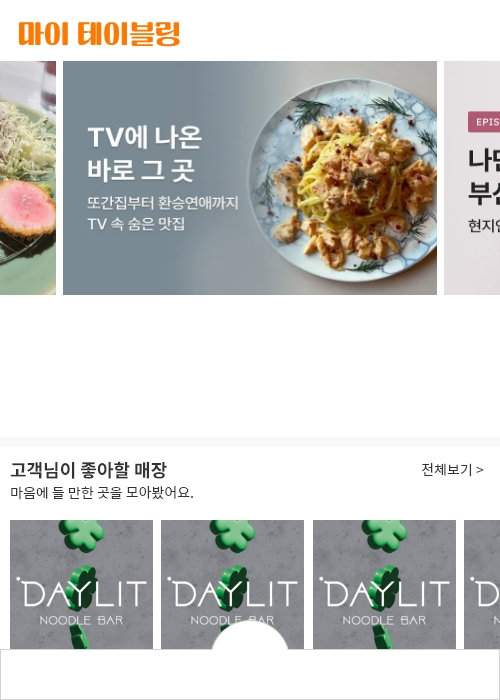
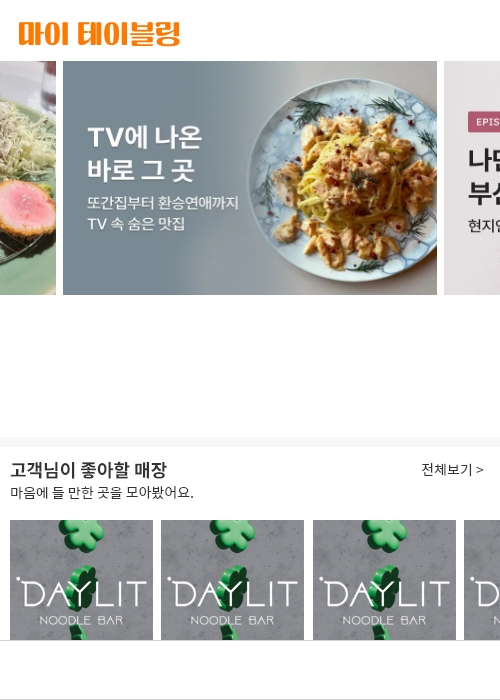
고객메인이미지수정, 예약리스트 구현중

Changed region(s): [[0.0, 0.87, 1.0, 1.0]]

diff --git a/src/tabling/frame/RestaurantMainMenuFrame.java b/src/tabling/frame/RestaurantMainMenuFrame.java
@@ -3,7 +3,9 @@ package tabling.frame;
 import java.awt.Font;
 import java.awt.Graphics;
 import java.awt.Image;
+import java.awt.event.ActionListener;
 import java.awt.event.MouseAdapter;
+import java.awt.event.MouseEvent;
 import java.sql.SQLException;
 import java.util.List;
 
@@ -14,6 +16,8 @@ import javax.swing.JLabel;
 import javax.swing.JPanel;
 import javax.swing.JScrollPane;
 import javax.swing.JTable;
+import javax.swing.event.AncestorEvent;
+import javax.swing.event.AncestorListener;
 import javax.swing.table.DefaultTableCellRenderer;
 import javax.swing.table.DefaultTableModel;
 
@@ -23,6 +27,7 @@ import tabling.dto.RestaurantDTO;
 
 public class RestaurantMainMenuFrame extends JFrame {
 
+	private RestaurantMainMenuFrame frame; // TODO
 	private BackgroundPanel backgroundPanel;
 	private RestaurantDTO restDTO;
 	private RestaurantReservationDAO restDAO;
@@ -53,9 +58,10 @@ public class RestaurantMainMenuFrame extends JFrame {
 	}
 
 	private void initData() {
+		 frame = this;
 		// 테이블에 담는 메소드
 		tableSet();
-		setCList();
+		setList();
 		restDAO = new RestaurantReservationDAO();
 		backgroundPanel = new BackgroundPanel();
 
@@ -87,16 +93,26 @@ public class RestaurantMainMenuFrame extends JFrame {
 
 	private void initListener() {
 
-		// 새로고침
+		// TODO - 새로고침
 		resetBtn.addMouseListener(new MouseAdapter() {
-			// 리스트를 다시 담아야 한다. select만.
-			DefaultTableModel tableModel = (DefaultTableModel)table.getModel();
-		
+			// 리스트 다시 담기.
+			@Override
+			public void mousePressed(MouseEvent e) {
+				setList();
+			}
 		});
 		
-		// 예약종료
+		// TODO - 예약종료
 		endReserBtn.addMouseListener(new MouseAdapter() {
 			// row를 하나만 선택한 상태에서 update & select 해야 한다.
+			
+			@Override
+			public void mousePressed(MouseEvent e) {
+				if(table.getRowCount() == 1) {
+					
+				}
+			}
+			
 		});
 		
 	}
@@ -152,9 +168,16 @@ public class RestaurantMainMenuFrame extends JFrame {
 
 		// 테이블에 컬럼 추가
 		table.getColumn("고객 닉네임").setPreferredWidth(120);
+		table.getColumn("고객 닉네임").setCellRenderer(centerAlign);
 		table.getColumn("고객 전화번호").setPreferredWidth(120);
+		table.getColumn("고객 전화번호").setCellRenderer(centerAlign);
 		table.getColumn("예약시간").setPreferredWidth(80);
+		table.getColumn("예약시간").setCellRenderer(centerAlign);
 		table.getColumn("예약상태").setPreferredWidth(90);
+		table.getColumn("예약상태").setCellRenderer(centerAlign);
+		
+		// 컬럼 이동 불가
+		table.getTableHeader().setReorderingAllowed(false);
 
 		//
 		repaint();
@@ -162,7 +185,7 @@ public class RestaurantMainMenuFrame extends JFrame {
 	}
 
 	// List<>에 값을 담는 메소드
-	private void setCList() {
+	private void setList() {
 		try {
 			reserList = restDAO.getCustomerInfoByReservation(restDTO.getRestaurantId());
 		} catch (SQLException e) {
@@ -186,71 +209,6 @@ public class RestaurantMainMenuFrame extends JFrame {
 			g.drawImage(backgroundImage, 0, 0, getWidth(), getHeight(), null);
 		}
 
-	}
-	
-	// TODO - 테이블 초기화 메소드
-	private void resetTable() {
-		// 리스트 값
-		contents = new String[reserList.size()][head.length];
-
-		for (int i = 0; i < reserList.size(); i++) {
-
-			String cName = reserList.get(i).getCustomerName();
-			String cPhone = reserList.get(i).getCustomerPhone();
-			String time = reserList.get(i).getReservationTime();
-			contents[i][0] = cName;
-			contents[i][1] = cPhone;
-			contents[i][2] = time.substring(5, 16);
-
-			if ((reserList.get(i).getState()).equals("Y")) {
-				String state = "대기중";
-				contents[i][3] = state;
-			} else {
-				String state = "예약종료";
-				contents[i][3] = state;
-			}
-
-		}
-
-		// 테이블
-		DefaultTableModel tableModel = new DefaultTableModel(contents, head); // 모델과 데이터 연결
-		table = new JTable(tableModel) {
-			@Override
-			public boolean isCellEditable(int row, int column) {
-				return false;
-			}
-		};
-
-		// 스크롤
-		scroll = new JScrollPane(table);
-		add(scroll);
-		scroll.setSize(450, 450);
-		scroll.setLocation(20, 115);
-
-		// 테이블에 개별 셀을 표시하기 위한 클래스
-		DefaultTableCellRenderer centerAlign = new DefaultTableCellRenderer();
-		centerAlign.setHorizontalAlignment(JLabel.CENTER);
-
-		// 테이블 폰트
-		table.setFont(new Font("Noto Sans KR", Font.BOLD, 15));
-		table.setRowHeight(25);
-		table.getTableHeader().setReorderingAllowed(false); // 컬럼 이동 불가
-
-		// 테이블에 컬럼 추가
-		table.getColumn("고객 닉네임").setPreferredWidth(120);
-		table.getColumn("고객 전화번호").setPreferredWidth(120);
-		table.getColumn("예약시간").setPreferredWidth(80);
-		table.getColumn("예약상태").setPreferredWidth(90);
-
-		//
-		repaint();
-	
-		try {
-			reserList = restDAO.getCustomerInfoByReservation(restDTO.getRestaurantId());
-		} catch (SQLException e) {
-			e.printStackTrace();
-		}
-	
 	}
 	
 }

diff --git a/src/tabling/frame/CategoryFrame.java b/src/tabling/frame/CategoryFrame.java
@@ -60,7 +60,7 @@ public class CategoryFrame extends JFrame implements MyMouseListener {
 		mainPanel = new MainPanel();
 		scrollPane = new JScrollPane(mainPanel);
 
-		homeLable = new JLabel(new ImageIcon("img/home.png"));
+		homeLable = new JLabel(new ImageIcon("img/house-solid.png"));
 
 		for (int i = 0; i < 14; i++) {
 			mainPanel.add(categoryImgs[i]);
@@ -76,14 +76,14 @@ public class CategoryFrame extends JFrame implements MyMouseListener {
 		setVisible(true);
 		setResizable(false);
 
-		homeLable.setBounds(40, 5, 70, 70);
+		homeLable.setBounds(215,588, 70, 70);
 		add(homeLable);
 
 		backgroundPanel.setSize(getWidth(), getHeight());
 		backgroundPanel.setLayout(null);
 		add(backgroundPanel);
 
-		scrollPane.setBounds(40, 120, 400, 420);
+		scrollPane.setBounds(48, 120, 400, 420);
 		backgroundPanel.add(scrollPane);
 
 		mainPanel.setLayout(new GridLayout(0, 1));
@@ -134,7 +134,7 @@ public class CategoryFrame extends JFrame implements MyMouseListener {
 		private Image backgroundImage;
 
 		public BackgroundPanel() {
-			backgroundImage = new ImageIcon("img/backgroundimage.jpg").getImage();
+			backgroundImage = new ImageIcon("img/categoryFrameBg.jpg").getImage();
 		}
 
 		@Override
@@ -148,7 +148,7 @@ public class CategoryFrame extends JFrame implements MyMouseListener {
 		private Image backgroundImage;
 
 		public MainPanel() {
-			backgroundImage = new ImageIcon("img/backgroundimage.jpg").getImage();
+			backgroundImage = new ImageIcon("img/scrollPaneBg.jpg").getImage();
 		}
 
 		@Override

diff --git a/src/tabling/frame/LoginSelectFrame.java b/src/tabling/frame/LoginSelectFrame.java
@@ -43,12 +43,12 @@ public class LoginSelectFrame extends JFrame {
 		backgroundPanel.setLayout(null);
 		add(backgroundPanel);
 
-		customerBtn.setBounds(40, 115, 50, 50);
+		customerBtn.setBounds(35, 115, 50, 50);
 		customerBtn.setSize(320, 200);
 		customerBtn.setFont(new Font("Noto Sans KR", Font.BOLD, 15));
 		backgroundPanel.add(customerBtn);
 
-		restaurantBtn.setBounds(40, 310, 50, 50);
+		restaurantBtn.setBounds(35, 310, 50, 50);
 		restaurantBtn.setSize(320, 200);
 		restaurantBtn.setFont(new Font("Noto Sans KR", Font.BOLD, 15));
 		backgroundPanel.add(restaurantBtn);

diff --git a/src/tabling/frame/CustomerMainMenuFrame.java b/src/tabling/frame/CustomerMainMenuFrame.java
@@ -66,7 +66,7 @@ public class CustomerMainMenuFrame extends JFrame {
 		userInfoBtn.setBounds(430, 15, 30, 30);
 		backgroundPanel.add(userInfoBtn);
 
-		homeBtn.setBounds(217, 595, 50, 50);
+		homeBtn.setBounds(217, 605, 50, 50);
 		backgroundPanel.add(homeBtn);
 		
 	}
